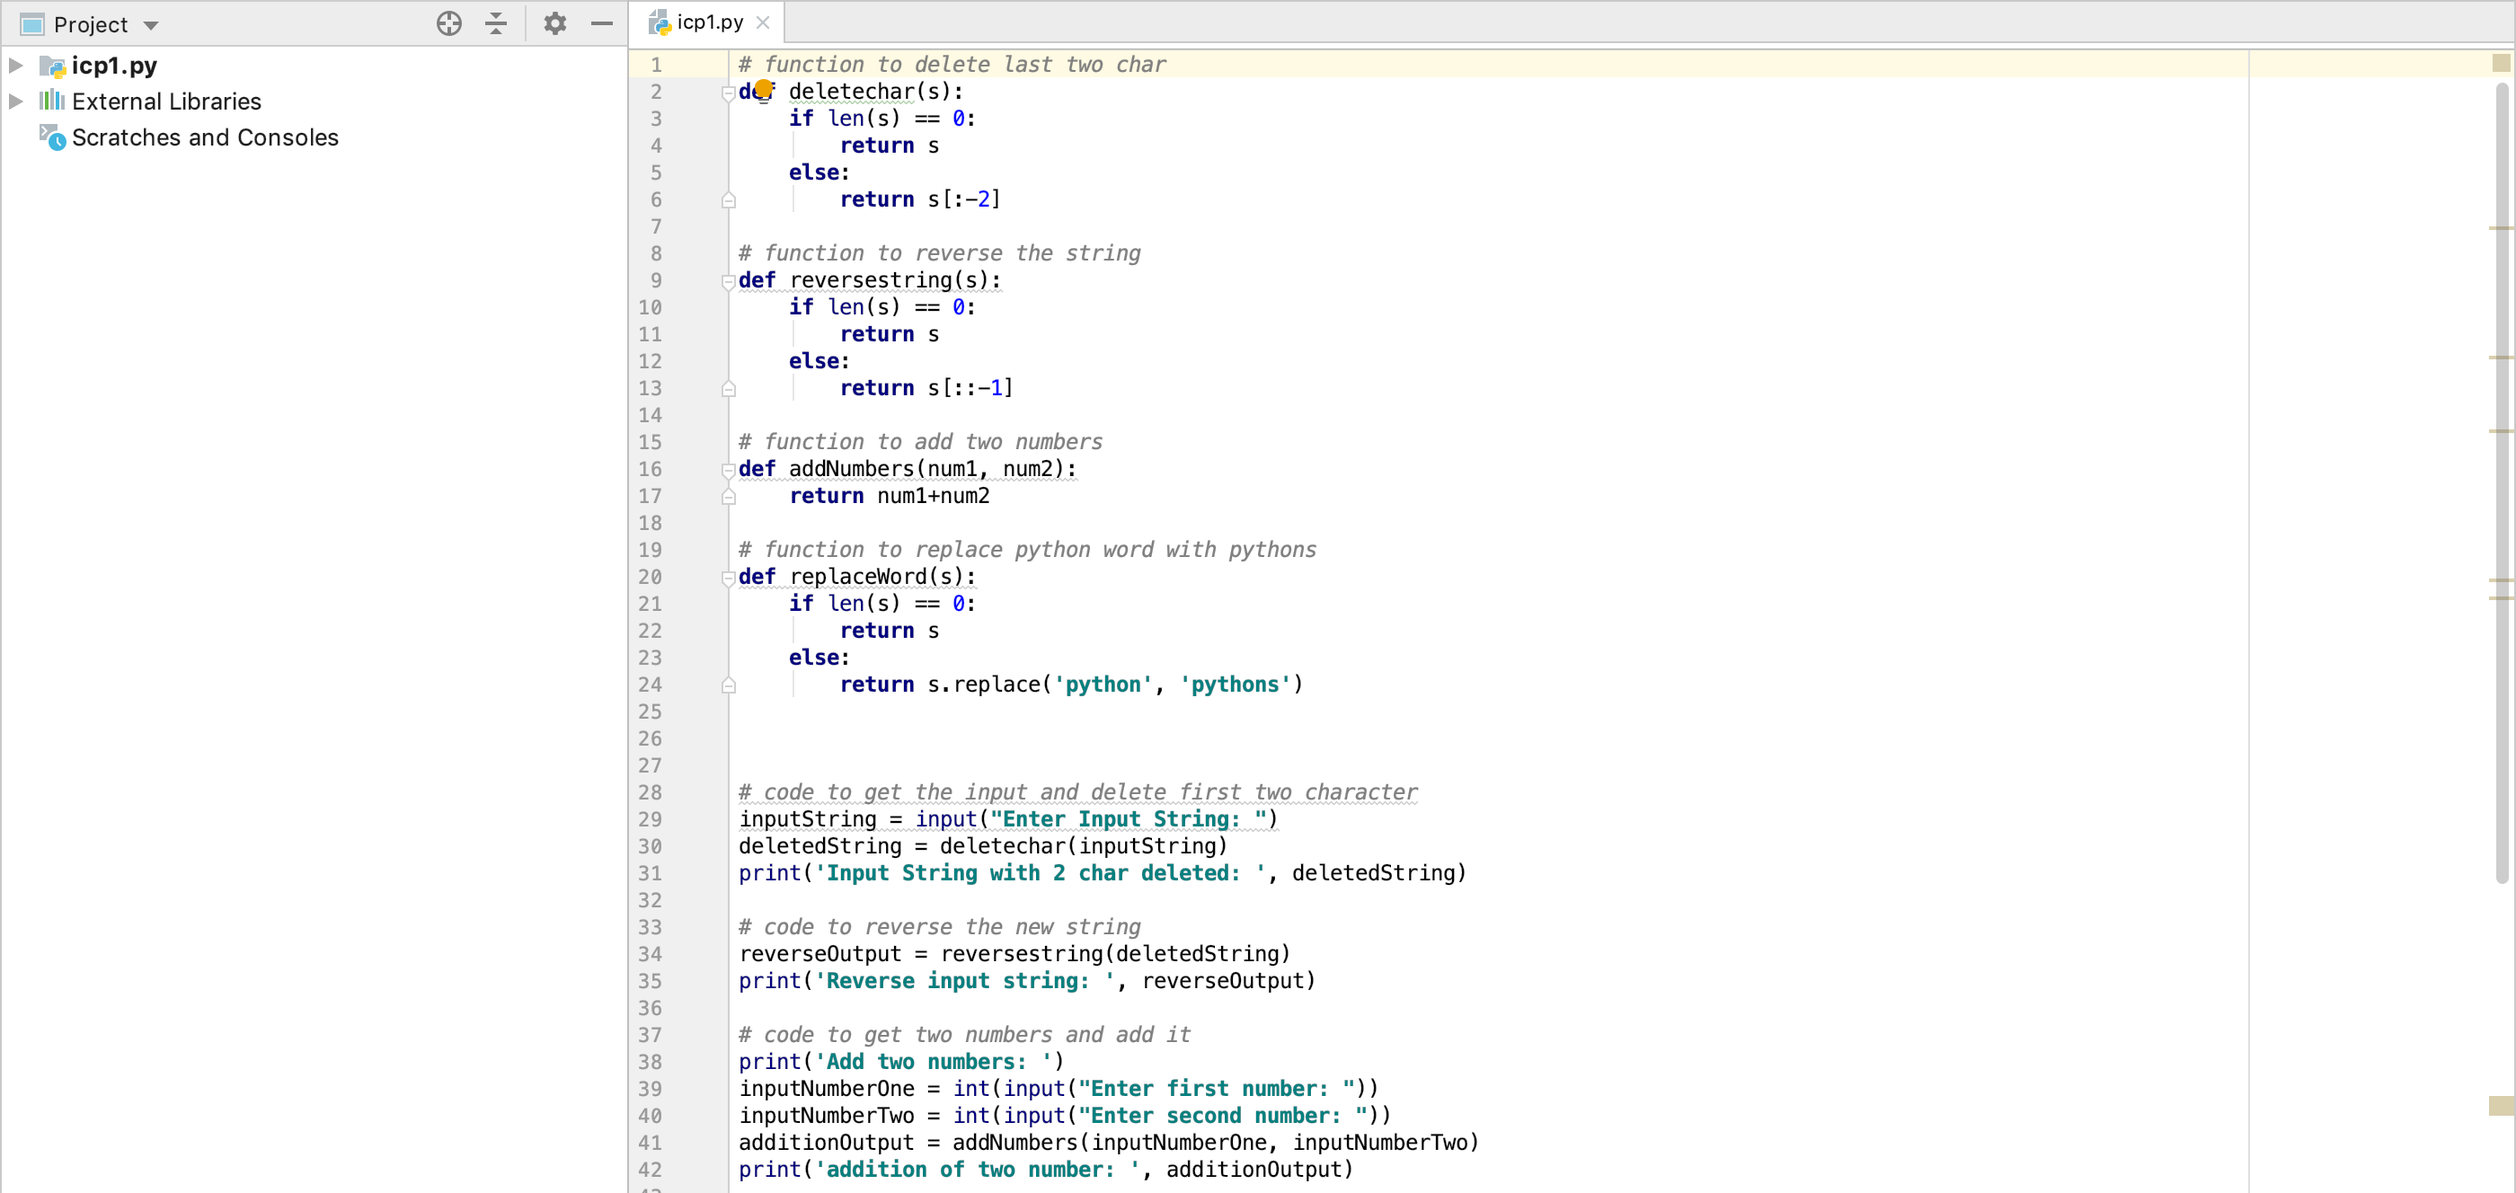
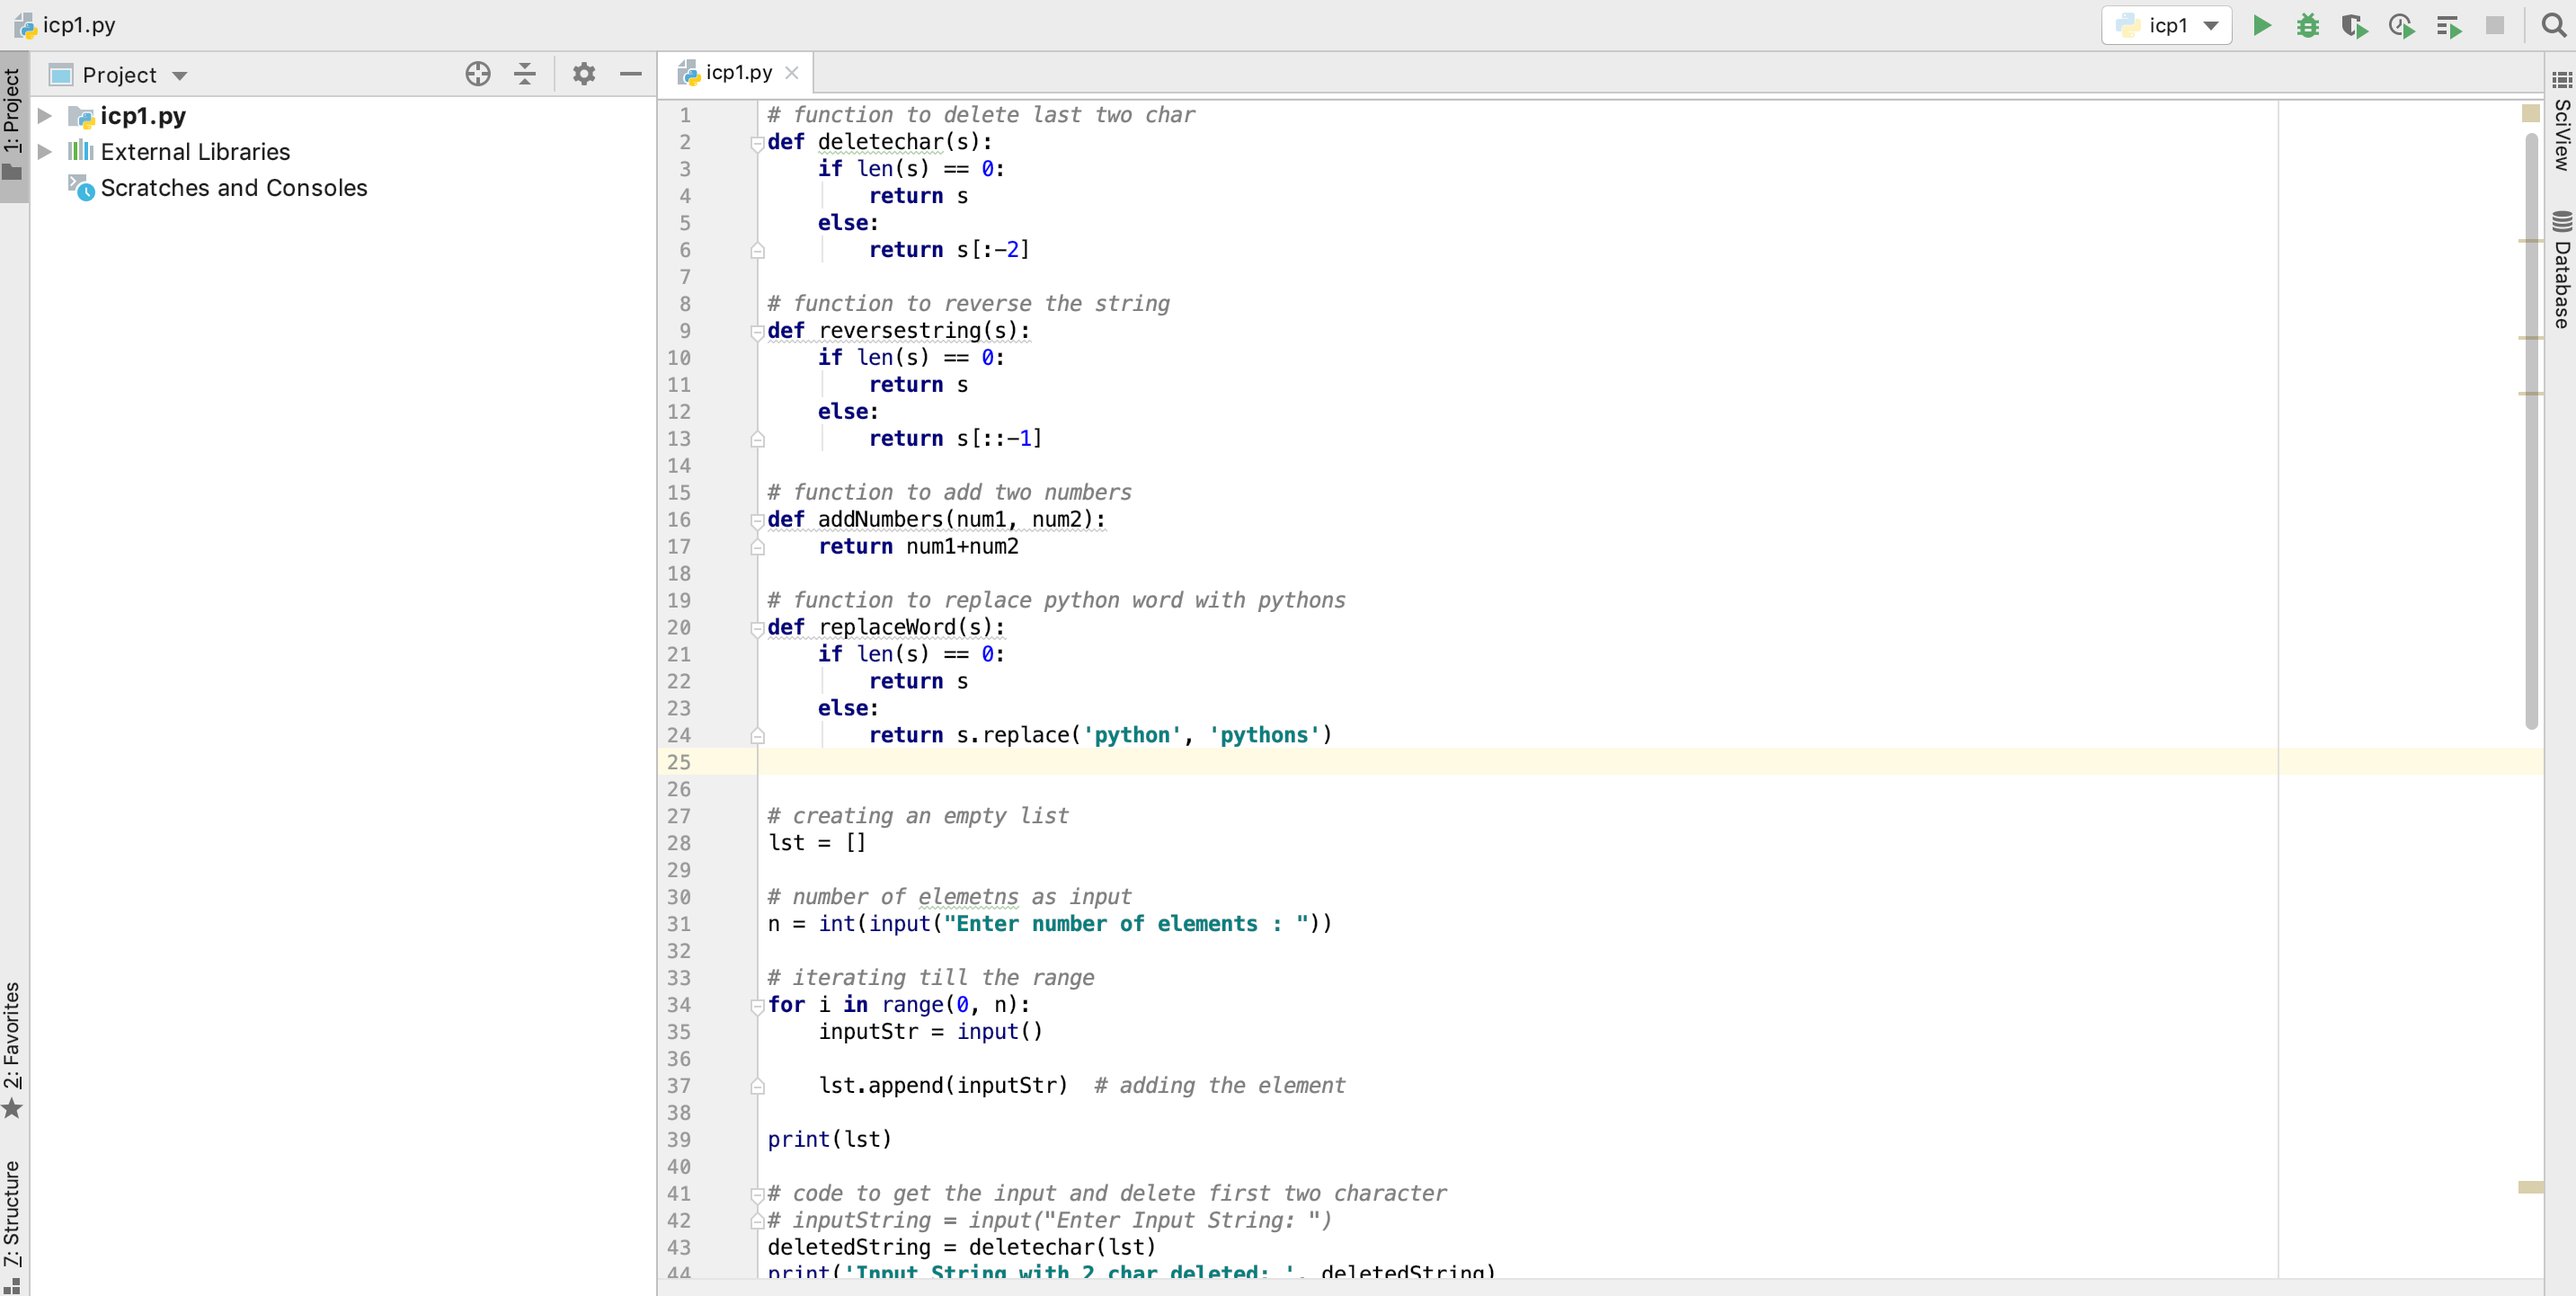
added screenshots

diff --git a/ICP1/icp1.py b/ICP1/icp1.py
@@ -24,15 +24,36 @@ def replaceWord(s):
         return s.replace('python', 'pythons')
 
 
+# creating an empty list
+lst = []
+
+# number of elemetns as input
+n = int(input("Enter number of elements : "))
+
+# iterating till the range
+for i in range(0, n):
+    inputStr = input()
+
+    lst.append(inputStr)  # adding the element
+
+print(lst)
 
 # code to get the input and delete first two character
-inputString = input("Enter Input String: ")
-deletedString = deletechar(inputString)
+# inputString = input("Enter Input String: ")
+deletedString = deletechar(lst)
 print('Input String with 2 char deleted: ', deletedString)
 
 # code to reverse the new string
 reverseOutput = reversestring(deletedString)
 print('Reverse input string: ', reverseOutput)
+
+# code to join list
+joiningString = ""
+
+for x in reverseOutput:
+    joiningString += x
+
+print(joiningString)
 
 # code to get two numbers and add it
 print('Add two numbers: ')
